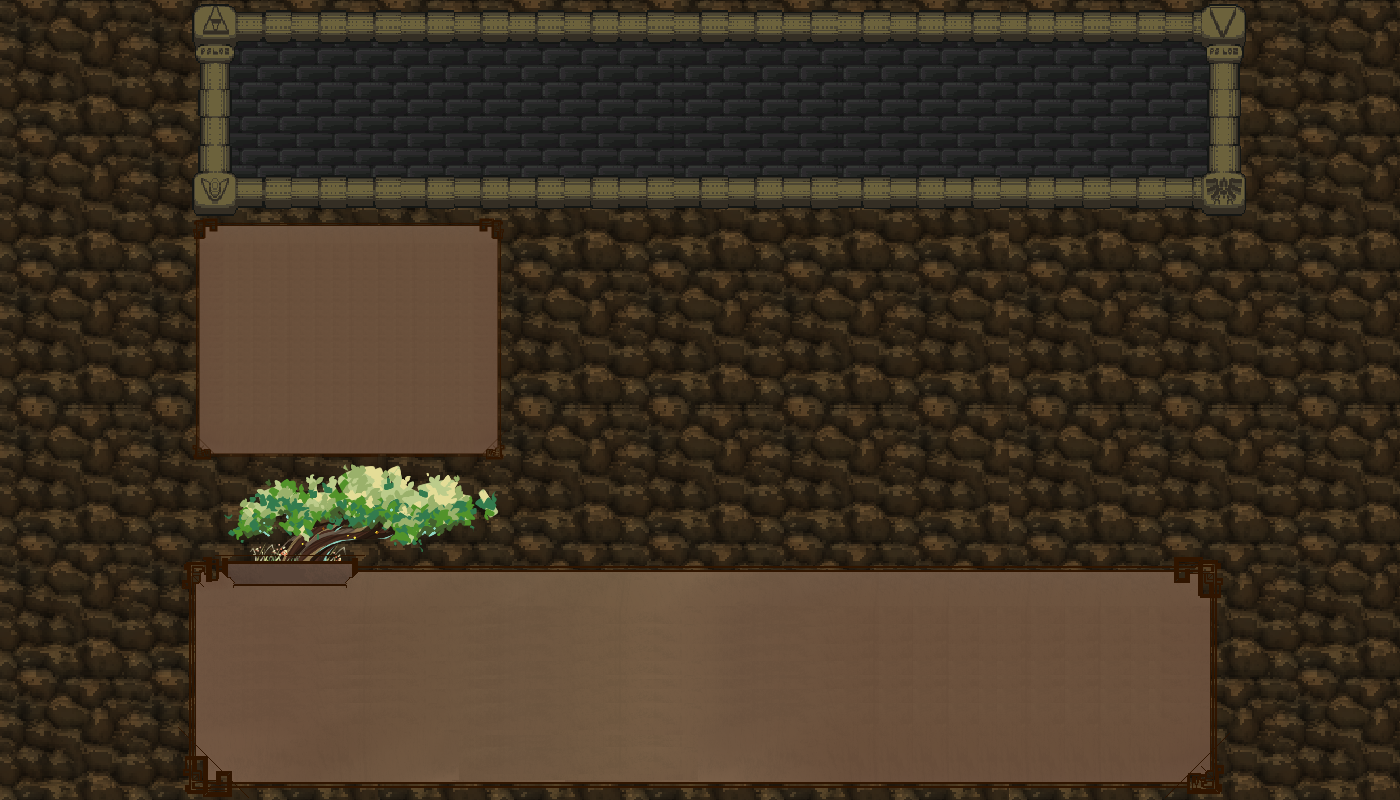
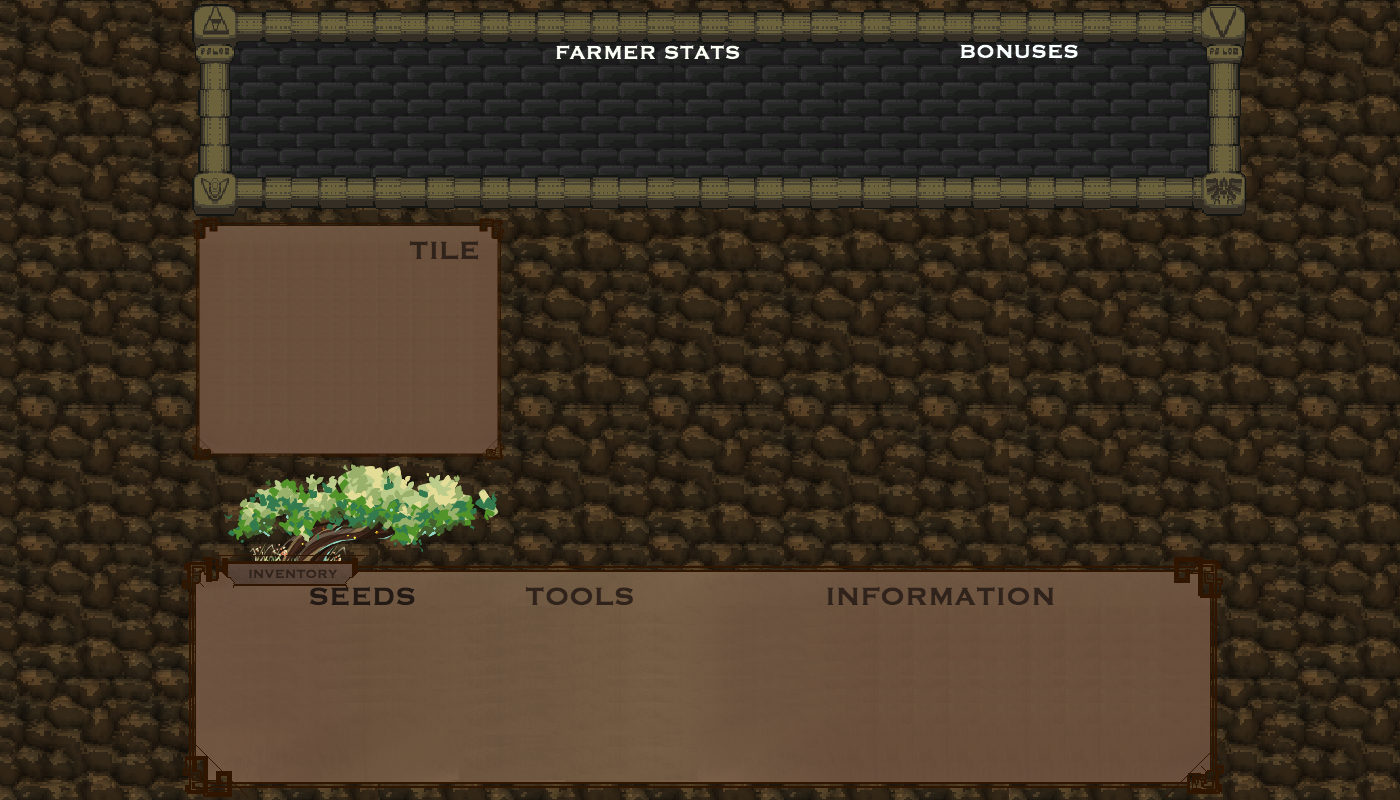
removed borders

diff --git a/View.java b/View.java
@@ -35,7 +35,7 @@ public class View {
 
   //ALL IMAGES INITIALIZATIONS
   Image menubackground = new Image("images/menubackground.png", 1400, 800, false, false);
-  Image logo = new Image("images/logo.jpg");
+  Image logo = new Image("images/logo.png");
   Image inventory = new Image("images/inventory.jpg");
   Image unselectedturnipimg = new Image("images/unselectedturnip.png");
   Image selectedturnipimg = new Image ("images/selectedturnip.png");
@@ -147,14 +147,12 @@ public class View {
     grid.getChildren().add(menubackgroundiv);
 
     //Logo
-    /*ImageView logodisplay = new ImageView(logo);
-    logodisplay.setFitHeight(526);
-    logodisplay.setFitWidth(739);
+    ImageView logodisplay = new ImageView(logo);
+    logodisplay.setFitWidth(439);
     logodisplay.setPreserveRatio(true);
-    logodisplay.setSmooth(true);
     grid.getChildren().add(logodisplay);
     StackPane.setMargin(logodisplay, new Insets(0, 0, 230, 0));
-    */
+
 
     //Name input
     TextField name = new TextField();
@@ -197,10 +195,6 @@ public class View {
 
     //////////////////// TOP LAYOUT (FARMER INFO) //////////////////////
 
-    HBox farmerinfo = new HBox();
-    farmerinfo.setSpacing(20);
-    farmerinfo.setStyle("-fx-padding: 10;" + "-fx-border-style: solid inside;" + "-fx-border-width: 2;"
-        + "-fx-border-insets: 5;" + "-fx-border-radius: 5;" + "-fx-border-color: white;");
 
     Pane picture = new Pane ();
     //picture.setStyle("-fx-padding: 0;" + "-fx-border-style: solid inside;" + "-fx-border-width: 2;"
@@ -209,26 +203,23 @@ public class View {
     farmericon.setPreserveRatio(true);
     farmericon.setFitWidth(110);
     picture.getChildren().add(farmericon);
-    farmerinfo.getChildren().add(picture);
 
     TextFlow farmerstatsbox = new TextFlow(farmerstats);
     farmerstats.setFont(Font.font ("Springfield Cartoon", 15));
     farmerstats.setFill(Color.WHITE);
-    farmerstatsbox.setStyle("-fx-padding: 0;" + "-fx-border-style: solid inside;" + "-fx-border-width: 2;"
-        + "-fx-border-insets: 0;" + "-fx-border-radius: 5;" + "-fx-border-color: white;");
+    farmerstatsbox.setStyle("-fx-padding: 0;" + "-fx-border-width: 2;"
+        + "-fx-border-insets: 0;" + "-fx-border-radius: 5;");
     farmerstatsbox.setPrefWidth(440);
     farmerstatsbox.setPrefHeight(148);
-    farmerinfo.getChildren().add(farmerstatsbox);
 
     farmerbonuses = new Text(controller.getFarmerBonuses());
     farmerbonuses.setFont(Font.font ("Springfield Cartoon", 15));
     farmerbonuses.setFill(Color.WHITE);
     TextFlow farmerbonusesbox = new TextFlow(farmerbonuses);
-    farmerbonusesbox.setStyle("-fx-padding: 0;" + "-fx-border-style: solid inside;" + "-fx-border-width: 2;"
-        + "-fx-border-insets: 0;" + "-fx-border-radius: 5;" + "-fx-border-color: white;");
+    farmerbonusesbox.setStyle("-fx-padding: 0;" + "-fx-border-width: 2;"
+        + "-fx-border-insets: 0;" + "-fx-border-radius: 5;");
     farmerbonusesbox.setPrefWidth(320);
     farmerbonusesbox.setPrefHeight(148);
-    farmerinfo.getChildren().add(farmerbonusesbox);
 
     ImageView register = new ImageView(unselectedregisterimg);
     register.setFitWidth(80);
@@ -273,8 +264,8 @@ public class View {
     GridPane invlayout = new GridPane();
     invlayout.setHgap(5);
     invlayout.setVgap(5);
-    invlayout.setStyle("-fx-padding: 5;" + "-fx-border-style: solid inside;" + "-fx-border-width: 2;"
-        + "-fx-border-insets: 0;" + "-fx-border-radius: 5;" + "-fx-border-color: white;");
+    invlayout.setStyle("-fx-padding: 5;" + "-fx-border-width: 2;"
+        + "-fx-border-insets: 0;" + "-fx-border-radius: 5;");
 
     // Vegetables
 
@@ -345,8 +336,8 @@ public class View {
     GridPane toollayout = new GridPane();
     toollayout.setHgap(5);
     toollayout.setVgap(5);
-    toollayout.setStyle("-fx-padding: 5;" + "-fx-border-style: solid inside;" + "-fx-border-width: 2;"
-        + "-fx-border-insets: 0;" + "-fx-border-radius: 5;" + "-fx-border-color: white;");
+    toollayout.setStyle("-fx-padding: 5;" + "-fx-border-width: 2;"
+        + "-fx-border-insets: 0;" + "-fx-border-radius: 5;");
 
     ImageView wateringcan = new ImageView (unselectedwateringcanimg);
     wateringcan.setOnMouseEntered(e -> wateringcan.setImage(selectedwateringcanimg));
@@ -397,8 +388,8 @@ public class View {
         info.setFill(Color.WHITE);
         HBox seedInfoBox = new HBox();
         seedInfoBox.setPrefWidth(530);
-        seedInfoBox.setStyle("-fx-padding: 10;" + "-fx-border-style: solid inside;" + "-fx-border-width: 2;"
-            + "-fx-border-insets: 5;" + "-fx-border-radius: 5;" + "-fx-border-color: white;");
+        seedInfoBox.setStyle("-fx-padding: 10;" + "-fx-border-width: 2;"
+            + "-fx-border-insets: 5;" + "-fx-border-radius: 5;");
         seedInfoBox.setSpacing(10);
 
         ImageView buyButton = new ImageView(unselectedbuyimg);
@@ -475,8 +466,8 @@ public class View {
 
 
         TextFlow seedInfo = new TextFlow(info);
-        seedInfo.setStyle("-fx-padding: 5;" + "-fx-border-style: solid inside;" + "-fx-border-width: 2;"
-            + "-fx-border-insets: 5;" + "-fx-border-radius: 5;" + "-fx-border-color: white;");
+        seedInfo.setStyle("-fx-padding: 5;" + "-fx-border-width: 2;"
+            + "-fx-border-insets: 5;" + "-fx-border-radius: 5;");
         seedInfo.setPrefWidth(410);
 
         seedInfoBox.getChildren().add(seedInfo);
@@ -503,8 +494,8 @@ public class View {
       HBox seedInfoBox = new HBox();
       seedInfoBox.setPrefHeight(180);
       seedInfoBox.setPrefWidth(530);
-      seedInfoBox.setStyle("-fx-padding: 10;" + "-fx-border-style: solid inside;" + "-fx-border-width: 2;"
-          + "-fx-border-insets: 5;" + "-fx-border-radius: 5;" + "-fx-border-color: white;");
+      seedInfoBox.setStyle("-fx-padding: 10;" + "-fx-border-width: 2;"
+          + "-fx-border-insets: 5;" + "-fx-border-radius: 5;");
       seedInfoBox.setSpacing(20);
 
       ImageView fertilizeButton = new ImageView(unselectedfertilizeimg);
@@ -582,8 +573,8 @@ public class View {
       info.setFont(Font.font ("Springfield Cartoon", 15));
       info.setFill(Color.WHITE);
       TextFlow seedInfo = new TextFlow(info);
-      seedInfo.setStyle("-fx-padding: 5;" + "-fx-border-style: solid inside;" + "-fx-border-width: 2;"
-          + "-fx-border-insets: 5;" + "-fx-border-radius: 5;" + "-fx-border-color: white;");
+      seedInfo.setStyle("-fx-padding: 5;" + "-fx-border-width: 2;"
+          + "-fx-border-insets: 5;" + "-fx-border-radius: 5;");
       seedInfo.setPrefWidth(380);
 
       seedInfoBox.getChildren().add(seedInfo);
@@ -608,8 +599,8 @@ public class View {
       HBox seedInfoBox = new HBox();
       seedInfoBox.setPrefHeight(180);
       seedInfoBox.setPrefWidth(530);
-      seedInfoBox.setStyle("-fx-padding: 10;" + "-fx-border-style: solid inside;" + "-fx-border-width: 2;"
-          + "-fx-border-insets: 5;" + "-fx-border-radius: 5;" + "-fx-border-color: white;");
+      seedInfoBox.setStyle("-fx-padding: 10;" + "-fx-border-width: 2;"
+          + "-fx-border-insets: 5;" + "-fx-border-radius: 5;");
       seedInfoBox.setSpacing(20);
 
       ImageView unplowedButton = new ImageView(unselectedplowimg);
@@ -662,8 +653,8 @@ public class View {
       info.setFont(Font.font ("Springfield Cartoon", 15));
       info.setFill(Color.WHITE);
       TextFlow seedInfo = new TextFlow(info);
-      seedInfo.setStyle("-fx-padding: 5;" + "-fx-border-style: solid inside;" + "-fx-border-width: 2;"
-          + "-fx-border-insets: 5;" + "-fx-border-radius: 5;" + "-fx-border-color: white;");
+      seedInfo.setStyle("-fx-padding: 5;" + "-fx-border-width: 2;"
+          + "-fx-border-insets: 5;" + "-fx-border-radius: 5;");
       seedInfo.setPrefWidth(380);
 
       seedInfoBox.getChildren().add(seedInfo);
@@ -687,8 +678,8 @@ public class View {
       HBox seedInfoBox = new HBox();
       seedInfoBox.setPrefHeight(180);
       seedInfoBox.setPrefWidth(530);
-      seedInfoBox.setStyle("-fx-padding: 10;" + "-fx-border-style: solid inside;" + "-fx-border-width: 2;"
-          + "-fx-border-insets: 5;" + "-fx-border-radius: 5;" + "-fx-border-color: white;");
+      seedInfoBox.setStyle("-fx-padding: 10;" + "-fx-border-width: 2;"
+          + "-fx-border-insets: 5;" + "-fx-border-radius: 5;");
       seedInfoBox.setSpacing(20);
 
 
@@ -743,8 +734,8 @@ public class View {
       info.setFont(Font.font ("Springfield Cartoon", 15));
       info.setFill(Color.WHITE);
       TextFlow seedInfo = new TextFlow(info);
-      seedInfo.setStyle("-fx-padding: 5;" + "-fx-border-style: solid inside;" + "-fx-border-width: 2;"
-          + "-fx-border-insets: 5;" + "-fx-border-radius: 5;" + "-fx-border-color: white;");
+      seedInfo.setStyle("-fx-padding: 5;" + "-fx-border-width: 2;"
+          + "-fx-border-insets: 5;" + "-fx-border-radius: 5;");
       seedInfo.setPrefWidth(380);
 
       seedInfoBox.getChildren().add(seedInfo);
@@ -768,8 +759,8 @@ public class View {
       HBox seedInfoBox = new HBox();
       seedInfoBox.setPrefHeight(180);
       seedInfoBox.setPrefWidth(530);
-      seedInfoBox.setStyle("-fx-padding: 10;" + "-fx-border-style: solid inside;" + "-fx-border-width: 2;"
-          + "-fx-border-insets: 5;" + "-fx-border-radius: 5;" + "-fx-border-color: white;");
+      seedInfoBox.setStyle("-fx-padding: 10;" + "-fx-border-width: 2;"
+          + "-fx-border-insets: 5;" + "-fx-border-radius: 5;");
       seedInfoBox.setSpacing(20);
 
       ImageView harvestButton = new ImageView(unselectedharvestimg);
@@ -821,8 +812,8 @@ public class View {
       info.setFont(Font.font ("Springfield Cartoon", 15));
       info.setFill(Color.WHITE);
       TextFlow seedInfo = new TextFlow(info);
-      seedInfo.setStyle("-fx-padding: 5;" + "-fx-border-style: solid inside;" + "-fx-border-width: 2;"
-          + "-fx-border-insets: 5;" + "-fx-border-radius: 5;" + "-fx-border-color: white;");
+      seedInfo.setStyle("-fx-padding: 5;" + "-fx-border-width: 2;"
+          + "-fx-border-insets: 5;" + "-fx-border-radius: 5;");
       seedInfo.setPrefWidth(380);
 
       seedInfoBox.getChildren().add(seedInfo);
@@ -847,8 +838,8 @@ public class View {
       HBox seedInfoBox = new HBox();
       seedInfoBox.setPrefHeight(180);
       seedInfoBox.setPrefWidth(530);
-      seedInfoBox.setStyle("-fx-padding: 10;" + "-fx-border-style: solid inside;" + "-fx-border-width: 2;"
-          + "-fx-border-insets: 5;" + "-fx-border-radius: 5;" + "-fx-border-color: white;");
+      seedInfoBox.setStyle("-fx-padding: 10;" + "-fx-border-width: 2;"
+          + "-fx-border-insets: 5;" + "-fx-border-radius: 5;");
       seedInfoBox.setSpacing(20);
 
       ImageView pickaxeButton = new ImageView(unselectedmineimg);
@@ -900,8 +891,8 @@ public class View {
       info.setFont(Font.font ("Springfield Cartoon", 15));
       info.setFill(Color.WHITE);
       TextFlow seedInfo = new TextFlow(info);
-      seedInfo.setStyle("-fx-padding: 5;" + "-fx-border-style: solid inside;" + "-fx-border-width: 2;"
-          + "-fx-border-insets: 5;" + "-fx-border-radius: 5;" + "-fx-border-color: white;");
+      seedInfo.setStyle("-fx-padding: 5;" + "-fx-border-width: 2;"
+          + "-fx-border-insets: 5;" + "-fx-border-radius: 5;");
       seedInfo.setPrefWidth(380);
 
       seedInfoBox.getChildren().add(seedInfo);
@@ -1004,7 +995,7 @@ public class View {
   }
 
   public void updateFarmerEXPbar() {
-    EXPbar.setProgress((float) controller.getFarmerEXP() / 50);
+    EXPbar.setProgress((float) controller.getFarmerEXP() / 75);
   }
 
   public void updateFarmerStats() {

diff --git a/Farmer.java b/Farmer.java
@@ -301,7 +301,7 @@ public class Farmer {
 
 		display = display + "\n   Farmer Name: " + name + "\n";
 		display = display + "   Farmer Rank : " + rankName + "\n";
-		display = display + "   LEVEL " + level + ": " + currentExp + " / 50\n";
+		display = display + "   LEVEL " + level + ": " + currentExp + " / 75\n";
 		display = display + "   Coins: " + coins + "\n";
 		display = display + "   Register Price to next rank: " + regPrice + canReg + " \n";
 
@@ -321,25 +321,25 @@ public class Farmer {
 		String display = "";
 
 		if (rank == 1) {
-			display = display + "\n   " +   rankName + "\n\n";
+			display = display + "\n\n   " +   rankName + "\n";
 			display = display + "   Buying Discount: - 2 \n";
 			display = display + "   Selling Bonus: + 2 \n";
 			display = display + "   Bonus Water and Fertilizer Limits: + 0\n";
 			display = display + "   Harvest Time Bonus: - 5% \n";
 		} else if (rank == 2) {
-			display = display + "\n   " +   rankName + "\n\n";
+			display = display + "\n\n   " +   rankName + "\n";
 			display = display + "   Buying Discount: - 3 \n";
 			display = display + "   Selling Bonus: + 3 \n";
 			display = display + "   Bonus Water and Fertilizer Limits: + 1\n";
 			display = display + "   Harvest Time Bonus: - 10% \n";
 		} else if (rank == 3) {
-			display = display + "\n   " +   rankName  + "\n\n";
+			display = display + "\n\n   " +   rankName  + "\n";
 			display = display + "   Buying Discount: - 5 \n";
 			display = display + "   Selling Bonus: + 5 \n";
 			display = display + "   Bonus Water and Fertilizer Limits: + 2\n";
 			display = display + "   Harvest Time Bonus: - 15% \n";
 		} else {
-			display = display + "\n   " +   rankName + "\n\n";
+			display = display + "\n\n   " +   rankName + "\n";
 			display = display + "   Buying Discount: - 0 \n";
 			display = display + "   Selling Bonus: + 0 \n";
 			display = display + "   Bonus Water and Fertilizer Limits: + 0\n";
